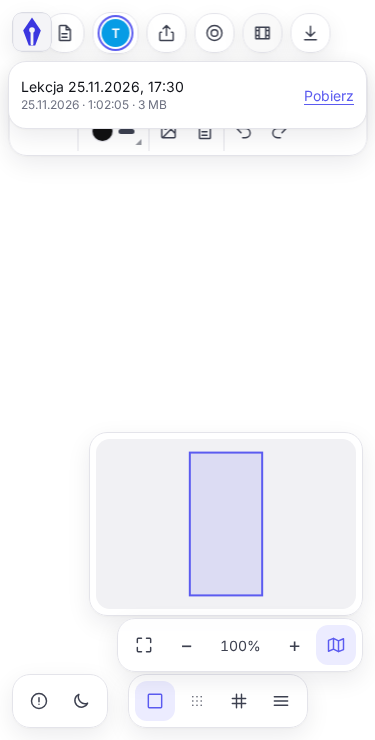
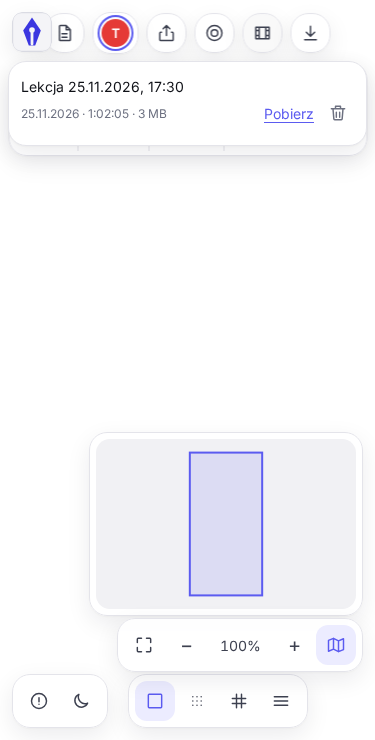
docs+web: bucket setup, ADR 0027, SPEC R-112/R-094 notes, recordings list layout (R-094)

diff --git a/web/src/style.css b/web/src/style.css
@@ -3064,8 +3064,9 @@ button.participant {
 	list-style: none;
 }
 .recordings-pop li {
-	display: grid;
-	grid-template-columns: 1fr auto;
+	display: flex;
+	flex-wrap: wrap;
+	align-items: center;
 	gap: 2px 12px;
 	padding: 8px 0;
 	border-bottom: 1px solid var(--border);
@@ -3077,9 +3078,14 @@ button.participant {
 	font-size: 12px;
 }
 .recordings-pop .rec-name {
+	flex: 1 1 100%;
+	min-width: 0;
 	overflow: hidden;
 	text-overflow: ellipsis;
 	white-space: nowrap;
+}
+.recordings-pop .rec-meta {
+	flex: 1 1 auto;
 }
 .recordings-pop p {
 	margin: 4px 0;
@@ -3112,8 +3118,7 @@ button.participant {
 	}
 }
 .recordings-pop .rec-actions {
-	grid-row: 1 / span 2;
-	grid-column: 2;
+	margin-left: auto;
 	display: flex;
 	align-items: center;
 	gap: 8px;

diff --git a/web/src/recording-controls.tsx b/web/src/recording-controls.tsx
@@ -240,7 +240,7 @@ export function RecordingControls({
 									{list.map((r) => (
 										<li key={r.id}>
 											<span class="rec-name">{r.name}</span>
-											<span class="muted">
+											<span class="muted rec-meta">
 												{new Date(r.createdAt).toLocaleDateString("pl-PL")}
 												{" · "}
 												{r.finished ? clock(r.durationMs) : "w toku"}

diff --git a/SPEC.md b/SPEC.md
@@ -131,7 +131,7 @@ Priorytety: P1 do pierwszej lekcji, P2 zaraz po niej, P3 później. Statusy: pro
 | R-109 | Wyjęte z platformy Ekorepetycje i poza zakresem: strona główna z ofertą i profilami nauczycieli, formularz kontaktowy, czat AI, cennik i oferty z cenami, e-mailowe przypomnienia (propozycja późniejsza), wdrożenie AWS (Terraform, ECS) i Ansible. Wdrożenie tylko na homelabie jak Inkroom (ADR 0003, 0014) | P1 | proposed |
 | R-110 | Pasek na tablecie i telefonie (uwaga użytkownika: ikony mają się lepiej mieścić): na urządzeniu dotykowym (wskaźnik główny dotykowy) przyciski narzędzi mają 36 px zamiast 40 px, a ikony 18 px zamiast 20 px, w pionowym pasku (R-082), w krótkim pasku i na dolnych wyspach (tło, powiększenie, róg z opinią i motywem). Na telefonie (ekran węższy niż 600 px) nazwa tablicy znika z górnego paska: zastępuje ją przycisk z ikoną, który otwiera małe okienko z pełną nazwą, a właściciel zmienia ją tam tak samo jak w pasku (Enter lub opuszczenie pola zapisuje, Esc anuluje). Na tablecie i komputerze nazwa zostaje w pasku jak dziś. Zmienia R-082 (cele dotykowe mniejsze niż w dotychczasowym pasku, ale nie mniejsze niż 36 px) i R-045 (na telefonie nazwa w okienku zamiast w pasku) | P2 | accepted |
 | R-111 | Awatar konta (prośba użytkownika): w oknie „Konto” (R-085) wybór awatara z zestawu około 30 wesołych obrazków (zwierzątka i buźki) albo „bez awatara” (pierwsza litera jak dziś). Obrazki to SVG z Microsoft Fluent Emoji w stylu Flat (licencja MIT, informacja o licencji w repo), wbudowane w aplikację, więc nic nie ładuje się z zewnątrz. Emotki Apple odpadają, bo ich licencja nie pozwala ich używać. Wybór zapisuje się przy koncie na serwerze (nowa kolumna w migracji, w API tylko identyfikator obrazka z listy dozwolonych). Awatar widać w przycisku konta w panelu, w oknie „Konto” i w znaczkach aktywnych osób na tablicy (R-046), zamiast litery, z obwódką w kolorze kursora; zmiana pojawia się u innych na tablicy od razu. Goście bez konta mają literę jak dotąd. Kursor bez zmian | P2 | accepted |
-| R-112 | **Nagrywanie lekcji, etap 1 (tymczasowe odstępstwo od R-094).** Pierwsza, uproszczona wersja R-094, żeby nagranie z ekranem i mikrofonem zaczęło się zapisywać; reszta R-094 (bucket R2, podpisane adresy, ograniczenie do twórcy, limit czasu) zostaje celem etapu 2. **Nagrywanie:** przycisk „Nagrywaj” / „Zakończ nagrywanie” w górnym pasku tablicy, tylko na komputerze (jak w R-094). Przeglądarka (`getDisplayMedia` + `getUserMedia` + `MediaRecorder`) nagrywa wybrany ekran razem z głosem z mikrofonu; format wybiera aplikacja (MP4 z H.264 i AAC, a gdy się nie da, WebM). **Zapis na dysku serwera aplikacji:** przeglądarka wysyła porcje co kilka sekund do serwera, który dopisuje je do pliku w `DATA_DIR/recordings/`; w bazie powstaje wiersz nagrania (tablica, nazwa, data, czas trwania, rozmiar), a „Zakończ nagrywanie” domyka plik i zapisuje czas trwania i rozmiar. Zerwane nagranie zostaje jako plik z tym, co dotarło. **Uprawnienia:** nagrywać, przeglądać listę i pobierać może każdy **zalogowany użytkownik z dostępem do tablicy**; nie sprawdzamy, czy jest jej twórcą, a gość z linkiem bez konta nie ma dostępu do nagrywania, listy ani pobierania. **Lista „Nagrania”** w górnym pasku: nagrania tej tablicy (nazwa, data, długość, rozmiar) z przyciskiem „Pobierz” (plik idzie przez serwer aplikacji). **Poza etapem 1:** bucket i podpisane adresy, ograniczenie do twórcy, usuwanie nagrań, czerwona kropka „Trwa nagrywanie”, limit 1 h 15 min, sprzątanie porzuconych nagrań, odtwarzacz na stronie. **Ograniczenia, które akceptujemy na czas etapu 1:** wideo przechodzi przez serwer aplikacji, a przez tunel Cloudflare jest ograniczane (powód R-094), więc etap służy do prób na LAN; wydanie z tagiem `vX.Y.Z` z tym etapem dopiero po zgodzie użytkownika albo po etapie 2; nagrania na dysku nie mają kopii (Litestream obejmuje tylko bazę), a brak limitów pozwala zapełnić dysk | P3 | accepted |
+| R-112 | **Zrealizowane 2026-11-25 razem z R-094 (ADR 0027): z etapu 1 zostaje tylko zapis na dysku serwera, gdy bucket nie jest ustawiony (`RECORDINGS_S3_*`); uprawnienia (tylko twórca tablicy nagrywa i usuwa), lista (także dla gościa) i reszta idą według R-094.** Poniżej pierwotny opis etapu 1. **Nagrywanie lekcji, etap 1 (tymczasowe odstępstwo od R-094).** Pierwsza, uproszczona wersja R-094, żeby nagranie z ekranem i mikrofonem zaczęło się zapisywać; reszta R-094 (bucket R2, podpisane adresy, ograniczenie do twórcy, limit czasu) zostaje celem etapu 2. **Nagrywanie:** przycisk „Nagrywaj” / „Zakończ nagrywanie” w górnym pasku tablicy, tylko na komputerze (jak w R-094). Przeglądarka (`getDisplayMedia` + `getUserMedia` + `MediaRecorder`) nagrywa wybrany ekran razem z głosem z mikrofonu; format wybiera aplikacja (MP4 z H.264 i AAC, a gdy się nie da, WebM). **Zapis na dysku serwera aplikacji:** przeglądarka wysyła porcje co kilka sekund do serwera, który dopisuje je do pliku w `DATA_DIR/recordings/`; w bazie powstaje wiersz nagrania (tablica, nazwa, data, czas trwania, rozmiar), a „Zakończ nagrywanie” domyka plik i zapisuje czas trwania i rozmiar. Zerwane nagranie zostaje jako plik z tym, co dotarło. **Uprawnienia:** nagrywać, przeglądać listę i pobierać może każdy **zalogowany użytkownik z dostępem do tablicy**; nie sprawdzamy, czy jest jej twórcą, a gość z linkiem bez konta nie ma dostępu do nagrywania, listy ani pobierania. **Lista „Nagrania”** w górnym pasku: nagrania tej tablicy (nazwa, data, długość, rozmiar) z przyciskiem „Pobierz” (plik idzie przez serwer aplikacji). **Poza etapem 1:** bucket i podpisane adresy, ograniczenie do twórcy, usuwanie nagrań, czerwona kropka „Trwa nagrywanie”, limit 1 h 15 min, sprzątanie porzuconych nagrań, odtwarzacz na stronie. **Ograniczenia, które akceptujemy na czas etapu 1:** wideo przechodzi przez serwer aplikacji, a przez tunel Cloudflare jest ograniczane (powód R-094), więc etap służy do prób na LAN; wydanie z tagiem `vX.Y.Z` z tym etapem dopiero po zgodzie użytkownika albo po etapie 2; nagrania na dysku nie mają kopii (Litestream obejmuje tylko bazę), a brak limitów pozwala zapełnić dysk | P3 | done |
 
 ## 4. Wymagania niefunkcjonalne
 Miary to propozycje startowe, do potwierdzenia po pierwszych testach na prawdziwej lekcji.
@@ -319,3 +319,4 @@ Do zrobienia przy wdrożeniu: ADR z konfiguracją bucketu (klucze w `.env`, CORS
 - 2026-11-24: R-110 i R-111 `accepted` przez użytkownika.
 - 2026-11-24: R-101 i R-102 `accepted` na prośbę użytkownika (Markdown nie rysował się na płótnie, pasek formatowania nieczytelny, brak zmiany szerokości pola bez skalowania tekstu): pasek w stylu Worda (czcionka, rozmiar, kolor, styl), rodziny czcionek dołączone do aplikacji, parser i układ Markdowna na płótnie, szerokość pola uchwytami; decyzje w ADR 0026.
 - 2026-11-25: na prośbę użytkownika R-112 (nagrywanie lekcji, etap 1: zapis na dysku serwera aplikacji, tylko dla zalogowanych użytkowników z dostępem do tablicy, z listą i pobieraniem; tymczasowe odstępstwo od magazynu R2 z R-094, które zostaje celem etapu 2), `accepted` przez użytkownika.
+- 2026-11-25: na prośbę użytkownika zrealizowane R-094 (czerwona kropka „Trwa nagrywanie”, nagrywa tylko twórca, bucket S3/R2 z podpisanymi adresami i dyskiem serwera jako zapasem, lista i pobieranie także dla gościa, usuwanie z potwierdzeniem, limit 1 h 15 min z ostrzeżeniem, kończenie zerwanych nagrań; ADR 0027) i R-112 przestaje być osobnym trybem (zostaje zapis na dysku bez bucketu). Status R-094 bez zmian do sprawdzenia na prawdziwym R2 (sprawdzone na lokalnym S3).

diff --git a/docs/decisions/0027-nagrywanie-lekcji-w-buckecie.md b/docs/decisions/0027-nagrywanie-lekcji-w-buckecie.md
@@ -1,0 +1,32 @@
+# 0027. Nagrywanie lekcji: bucket S3 (R2) i dysk serwera jako zapas
+
+- Status: accepted
+- Data: 2026-11-25
+
+## Kontekst
+R-094: prowadzący nagrywa ekran i mikrofon; wideo ma trafiać do magazynu poza serwerem aplikacji. Cloudflare ogranicza wideo przez swoje proxy (tunel) na darmowym planie, R2 je dopuszcza. R-112 (etap 1) dodał zapis na dysku serwera, żeby dało się nagrywać przed założeniem bucketu i na środowiskach testowych bez R2.
+
+## Rozważane opcje
+1. **Wideo przez serwer aplikacji** (do pliku lub dalej do bucketu). Proste, ale wideo idzie przez tunel i obciąża serwer, czyli to, czego R-094 chce uniknąć.
+2. **Wysyłanie wieloczęściowe prosto z przeglądarki do bucketu, adresy podpisuje serwer.** Serwer nie widzi wideo; trzeba CORS w buckecie i wspólnego zachowania dwóch magazynów.
+3. **Biblioteka AWS SDK lub własny SigV4.** SDK jest duże; własny podpis to kod, który łatwo zepsuć.
+
+## Decyzja
+Opcja 2, z biblioteką `minio-go` (mały klient S3, działa z R2, GCS i MinIO) w pakiecie `internal/recstore`. Interfejs `Backend` ma dwie implementacje: `S3` (bucket) i `Disk` (katalog w `DATA_DIR`). Bucket ustawiają cztery zmienne `RECORDINGS_S3_*` (wszystkie albo żadna); bez nich działa `Disk`.
+
+Przepływ jest jeden dla obu magazynów: serwer zakłada wiersz i przesyłanie (`POST /recordings`), przeglądarka tnie wideo na części równe `PartSize` (5 MiB, ostatnia krótsza; R2 wymaga równych części) i dla każdej prosi o adres (`POST .../parts/{n}`). Dla bucketu to podpisany adres, dla dysku adres serwera (`PUT .../parts/{n}`), który wpisuje część na jej miejsce w pliku, więc kolejność i powtórzenia nie mają znaczenia. Przeglądarka nie wysyła własnych nagłówków do bucketu (podpis musi się zgadzać), a przy każdej próbie prosi o nowy adres. `POST .../finish` składa część w obiekt (`ListParts` i `CompleteMultipartUpload`, więc przeglądarka nie musi znać ETagów; bierze się nieprzerwany ciąg części od pierwszej) i zapisuje rozmiar i czas. Nagranie bez ani jednej części znika.
+
+Uprawnienia: nagrywa, kończy i usuwa tylko twórca tablicy; listę i pobieranie ma każdy z dostępem do tablicy, także gość (R-003). Pobranie to przekierowanie na podpisany adres ważny 5 minut (dla dysku plik z serwera). Usunięcie nagrania, tablicy lub konta usuwa też obiekt.
+
+Zerwane nagrania: co 5 minut serwer kończy te, od których przez 15 minut nie przyszła żadna część (czas trwania to czas do ostatniej części), a puste usuwa; reguła cyklu życia bucketu łapie resztę. Część wysyłana po 80 minutach od startu jest odrzucana (limit 1 h 15 min pilnuje klient, 5 minut zapasu na ostatnie części).
+
+Czerwona kropka: klient twórcy wysyła `{"t":"recording","on":true|false}`; pokój trzyma flagę w pamięci przy połączeniu (nie w bazie) i dokłada `recording` do listy osób, więc kropkę widzą też ci, którzy dołączą później, a znika razem z połączeniem. Klient ponawia komunikat po ponownym połączeniu.
+
+Przeglądarka łączy się z bucketem, więc CSP strony dostaje jego adres w `connect-src` (tylko gdy bucket jest ustawiony).
+
+## Konsekwencje
+- Nowa zależność `minio-go` z kilkoma drobnymi (do sprawdzenia przez Trivy w CI).
+- Dwie implementacje i wiersz z polem `storage`: zmiana ustawień nie gubi starych nagrań.
+- Prawdziwy S3 sprawdzają testy z `RECSTORE_TEST_S3` (lokalny S3, np. SeaweedFS lub MinIO); R2 samo trzeba sprawdzić na wdrożeniu (sekcja 12 `deploy/README.md`).
+- Tryb dyskowy zostaje dla prób: wideo przez tunel, bez limitu miejsca i kopii.
+- Odtwarzacza na stronie nie ma (poza zakresem R-094).

diff --git a/deploy/README.md b/deploy/README.md
@@ -361,6 +361,34 @@ Kolejność ma znaczenie (stos najpierw, żeby agent miał dokąd pisać):
 - Gniazdo Dockera (`/var/run/docker.sock`) jest montowane do agenta, żeby czytać logi kontenerów: kto przejmie ten kontener, ma uprawnienia roota na maszynie aplikacji. Obraz jest przypięty do wersji i nie ma opublikowanego portu (ADR 0023). Stos nie ma gniazda Dockera.
 - Porty 3100 i 9090 stosu nie mają logowania: są otwarte tylko na adresie LAN. Nie przekierowuj ich z routera.
 
+## 12. Nagrania lekcji (R-094, ADR 0027)
+
+Prowadzący (twórca tablicy) nagrywa ekran i mikrofon na komputerze; przeglądarka wysyła wideo **prosto do
+bucketu** podpisanymi adresami, więc nie przechodzi ono przez serwer ani tunel (Cloudflare ogranicza wideo
+przez swoje proxy na darmowym planie, a R2 pozwala). Bez ustawień bucketu aplikacja zapisuje nagrania na
+dysku serwera (`/data/recordings`), co nadaje się tylko do prób: wideo przechodzi wtedy przez tunel, nie ma
+limitu miejsca ani kopii.
+
+**Jednorazowo w Cloudflare** (drugi bucket, nie ten z kopiami bazy):
+1. R2, **Create bucket**, np. `inkroom-recordings`.
+2. R2, **Manage API tokens**: uprawnienie **Object Read & Write**, zakres **tylko ten bucket**.
+3. W buckecie, **Settings**, **CORS Policy** (przeglądarka wysyła porcje spod adresu aplikacji):
+   ```json
+   [{"AllowedOrigins": ["https://inkroom.lesniakmaciek.dev"], "AllowedMethods": ["GET", "PUT"],
+     "AllowedHeaders": ["*"], "MaxAgeSeconds": 3600}]
+   ```
+4. W buckecie, **Settings**, **Object lifecycle rules**: reguła „Abort incomplete multipart uploads” po kilku
+   dniach (porzucone przesyłanie bez końca zajmuje miejsce, dopóki ktoś go nie zakończy; serwer sam kończy
+   te, które ucichły na 15 minut, ale reguła łapie resztę).
+5. W `.env`: `RECORDINGS_S3_ENDPOINT` (`<ACCOUNT_ID>.r2.cloudflarestorage.com`), `RECORDINGS_S3_BUCKET`,
+   `RECORDINGS_S3_ACCESS_KEY`, `RECORDINGS_S3_SECRET_KEY`. Wszystkie cztery albo żadne (przy części aplikacja
+   odmawia startu). `docker compose up -d`.
+
+**Sprawdzenie:** w logu aplikacji nie ma ostrzeżenia „RECORDINGS_S3_* is not set”; na tablicy przycisk
+„Nagrywaj”, kilkadziesiąt sekund nagrania (porcje są po 5 MiB), „Zakończ nagrywanie”, na liście „Nagrania”
+„Pobierz”. Nagrania zrobione wcześniej na dysku zostają dostępne (nagranie pamięta, gdzie leży).
+Zamiana dostawcy (np. Google Cloud Storage przez interfejs S3) to zmiana tych czterech zmiennych.
+
 ## Gdy coś nie działa
 
 | Objaw | Co sprawdzić |

diff --git a/docs/testowanie-lokalne.md b/docs/testowanie-lokalne.md
@@ -186,3 +186,26 @@ w Explore zwraca logi, (3) „Test” kontaktu daje wiadomość w Telegramie, (4
 - **Inny system hosta:** VM to Debian z innym układem katalogów Dockera i wersją jądra niż Fedora tutaj;
   po wdrożeniu sprawdź, że panele hosta i kontenerów mają dane (lista w sekcji 8).
 - **Telegram, Cloudflare Access i `logs.<domena>`:** wymagają Twoich kont, sprawdzasz po wdrożeniu.
+
+## Nagrywanie lekcji z lokalnym bucketem S3 (R-094)
+
+Bez ustawień `RECORDINGS_S3_*` nagrania idą na dysk serwera. Żeby sprawdzić drogę przez bucket (części
+podpisanymi adresami prosto z przeglądarki), postaw lokalny S3, np. SeaweedFS:
+```sh
+cat > /tmp/s3.json <<'JSON'
+{"identities":[{"name":"inkroom","credentials":[{"accessKey":"testkey","secretKey":"testsecret1234"}],"actions":["Admin","Read","Write","List","Tagging"]}]}
+JSON
+docker run -d --name inkroom-s3 -p 8333:8333 -v /tmp/s3.json:/etc/seaweedfs/s3.json \
+  chrislusf/seaweedfs server -s3 -s3.config=/etc/seaweedfs/s3.json -dir=/data
+curl -X PUT --aws-sigv4 "aws:amz:auto:s3" --user testkey:testsecret1234 http://localhost:8333/inkroom   # bucket
+RECORDINGS_S3_ENDPOINT=http://192.168.0.51:8333 RECORDINGS_S3_BUCKET=inkroom \
+RECORDINGS_S3_ACCESS_KEY=testkey RECORDINGS_S3_SECRET_KEY=testsecret1234 \
+  FRESH=1 sh .claude/skills/test-server/server.sh start 8099
+```
+Adres bucketu musi być osiągalny z przeglądarki (stąd adres LAN, nie `localhost`, jeśli testujesz z innego
+komputera). Test pakietu na prawdziwym S3:
+`RECSTORE_TEST_S3="http://localhost:8333,inkroom,testkey,testsecret1234" go test ./internal/recstore -run TestS3 -v`.
+
+Przechwytywanie ekranu działa tylko na https albo `localhost`. Z innego komputera po `http://192.168.0.51:8099`
+przycisk „Nagrywaj” się nie pokaże, dopóki w Chrome nie dodasz tego adresu w
+`chrome://flags/#unsafely-treat-insecure-origin-as-secure`.
